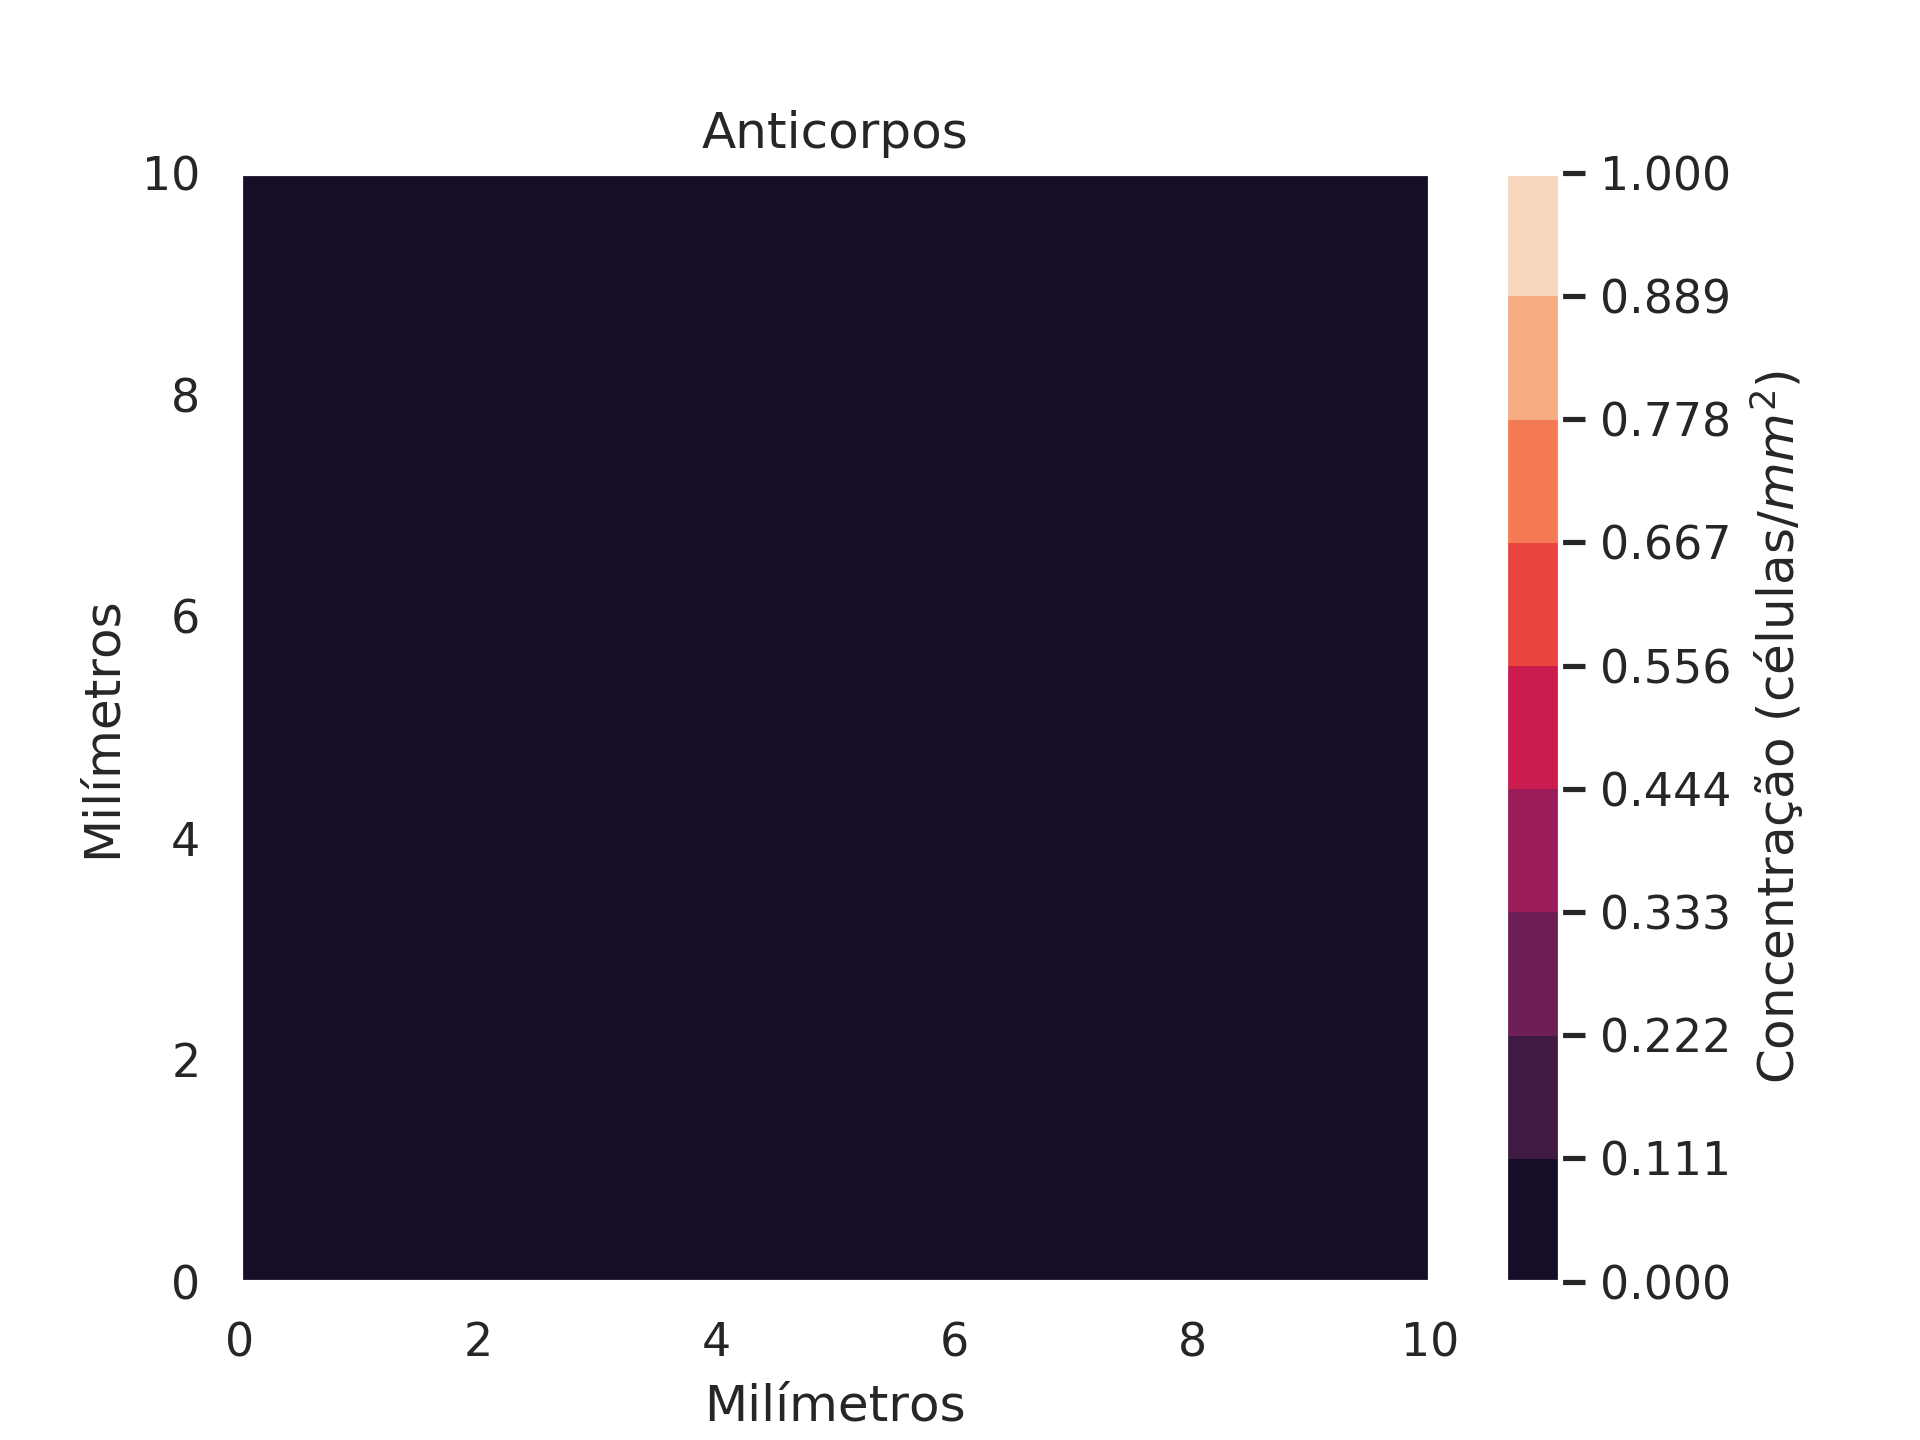
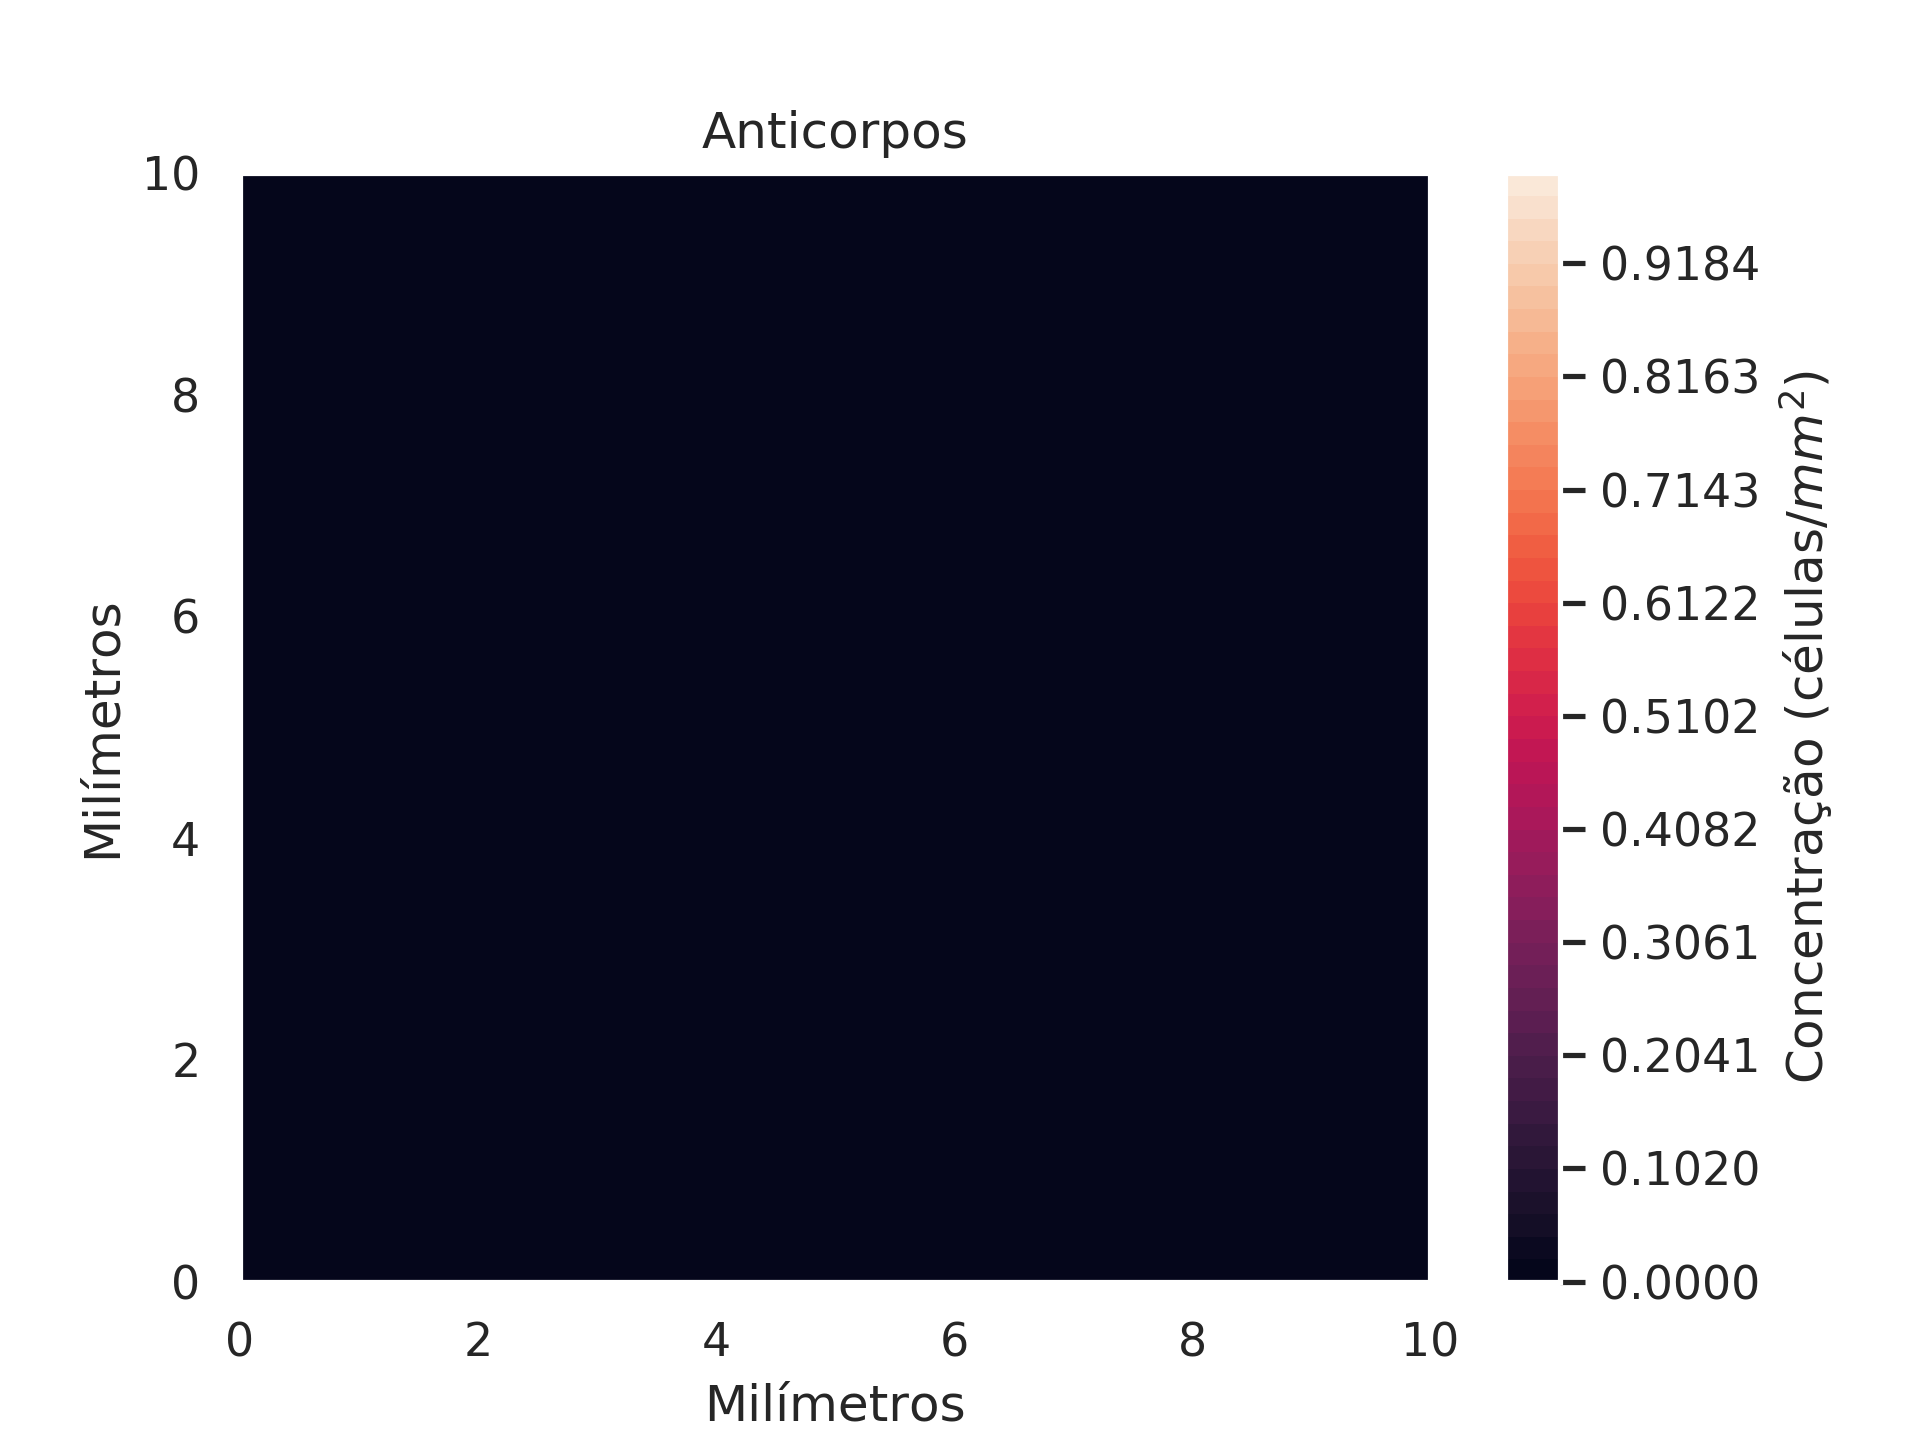
ativacao Tke. Malha com hx=0.1

diff --git a/src/modelo_populações_completo.py b/src/modelo_populações_completo.py
@@ -13,9 +13,9 @@ quimiotaxia = lambda ponto_atual, valor_maximo: ponto_atual/(valor_maximo + pont
 f_func = lambda populacao, valor_maximo: populacao*populacao/(valor_maximo + populacao)
 
 T_final = 7# Dia
-h_t = 0.00001
+h_t = 0.0002
 
-L = 10  # Comprimento da malha
+L = 25  # Comprimento da malha
 h_x = 0.1
 
 t = np.linspace(0, T_final, int(T_final/h_t))
@@ -40,22 +40,20 @@ for i in range(int(L/h_x)):
     for j in range(int(L/h_x)):
         if i > L/h_x*.9 and j > L/h_x*.9:
             theta_BV[i][j] = 1
-            V_LV += 1
+            V_BV += 1
 
 theta_LV = np.zeros((int(L/h_x), int(L/h_x)))
 for i in range(int(L/h_x)):
     for j in range(int(L/h_x)):
-        if i < L/h_x*.5 and j < L/h_x*.5:
+        if i >= L/h_x*.3 and i < L/h_x*.4 and j >= L/h_x*.3 and j < L/h_x*.4:
             theta_LV[i][j] = 1
-            V_BV += 1
+            V_LV += 1
 
 V_LN = 160
 
 def checkBVeLV():
     x_pts, y_pts = np.meshgrid(x, x)
-    max_population = np.max(theta_LV)
-    if max_population == 0:
-        max_population += 1
+    max_population = 1
     levels = np.linspace(0, max_population, 10)
 
     cp = plt.contourf(x_pts, y_pts,theta_LV, levels=levels)
@@ -166,7 +164,7 @@ def printMesh(time, population, type):
     max_population = np.max(population)
     if max_population == 0:
         max_population += 1
-    levels = np.linspace(0, max_population, 10)
+    levels = np.linspace(0, max_population, 50)
 
     cp = plt.contourf(x_pts, y_pts,population, levels=levels)
     plt.title(populationTitle[type])
@@ -178,7 +176,7 @@ def printMesh(time, population, type):
 
 
 parameters = {
-    "chi": 0.298*60*24, # Quimioatracao. valor por Dia
+    "chi": 0.298*60*2, # Quimioatracao. valor por Dia
     "D_mic": 60*24*6.6*10**-5, # Difusao da microglia. valor por Dia
     "mu_m": 60*24*3*10**-6, # Taxa de ativação da microglia. valor por Dia
     "r_m": 60*24*3.96*10**-6, # intensidade dos danos causados pela microglia valor por Dia
@@ -207,9 +205,11 @@ parameters = {
     "alpha_T_c": 0.5,
     "alpha_B": 1,
     "b_T": 0.017,
+    "b_Tc": 0.005,
     "b_rho": 10**5,
     "b_rho_b": 6.02*10**3,
     "rho_T": 2,
+    "rho_Tc": 2,
     "rho_B": 16,
     "rho_F": 5.1*10**4,
     "estable_T_h": 8.4*10**-3,

diff --git a/src/linfonodo.py b/src/linfonodo.py
@@ -1,13 +1,13 @@
 import numpy as np
 
 def diferential(y, parameters):
-    # When working with only one diferential function there must be created a null extra position
+    
     dy = np.zeros(5)
 
     # Dendritic cells
     dy[0] = parameters["gamma_D"] * (parameters["DendriticasTecido"] - y[0]) * (parameters["V_LV"] / parameters["V_LN"])
     # Cytotoxic T cells
-    dy[1] = parameters["alpha_T_c"] * (parameters["estable_T_c"] - y[1]) - (parameters["gamma_T"] * (y[1] - parameters["TcitotoxicaTecido"])) * (parameters["V_BV"] / parameters["V_LN"])
+    dy[1] = parameters["b_Tc"]*(parameters["rho_Tc"] * y[1] * y[0] - y[1]*y[0]) + parameters["alpha_T_c"] * (parameters["estable_T_c"] - y[1]) - (parameters["gamma_T"] * (y[1] - parameters["TcitotoxicaTecido"])) * (parameters["V_BV"] / parameters["V_LN"])
     # # Helper T cells
     dy[2] = parameters["b_T"]*(parameters["rho_T"] * y[2] * y[0] - y[2]*y[0]) - (parameters["b_rho"] * y[2] * y[0] * y[3]) + parameters["alpha_T_h"] * (parameters["estable_T_h"] - y[2])
     # # B cells
